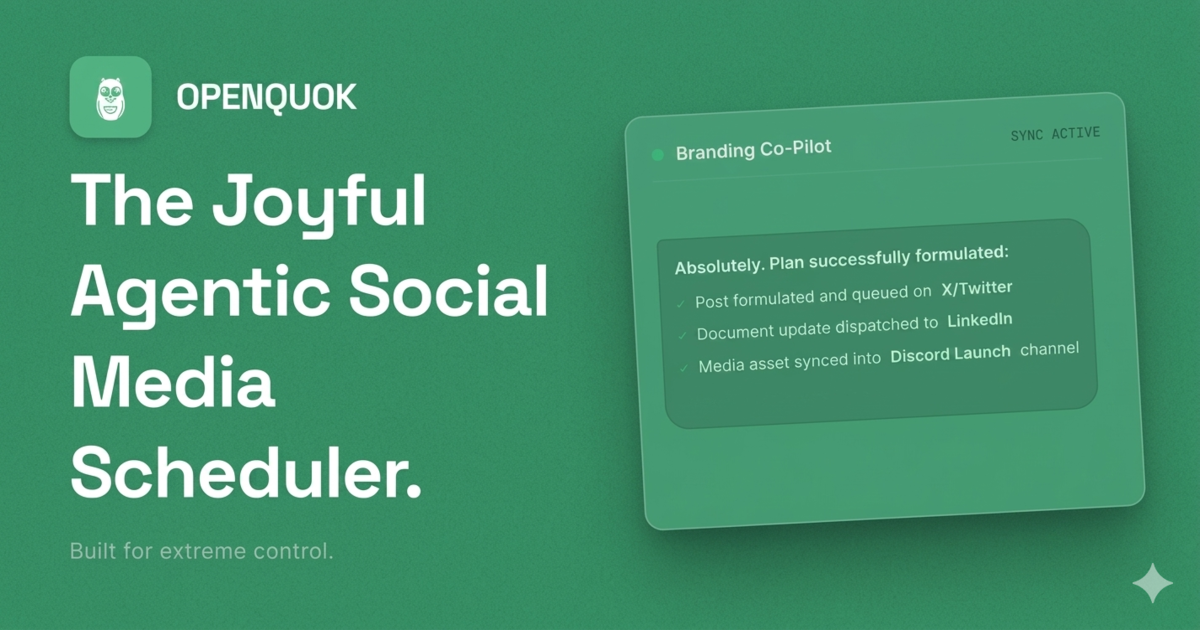
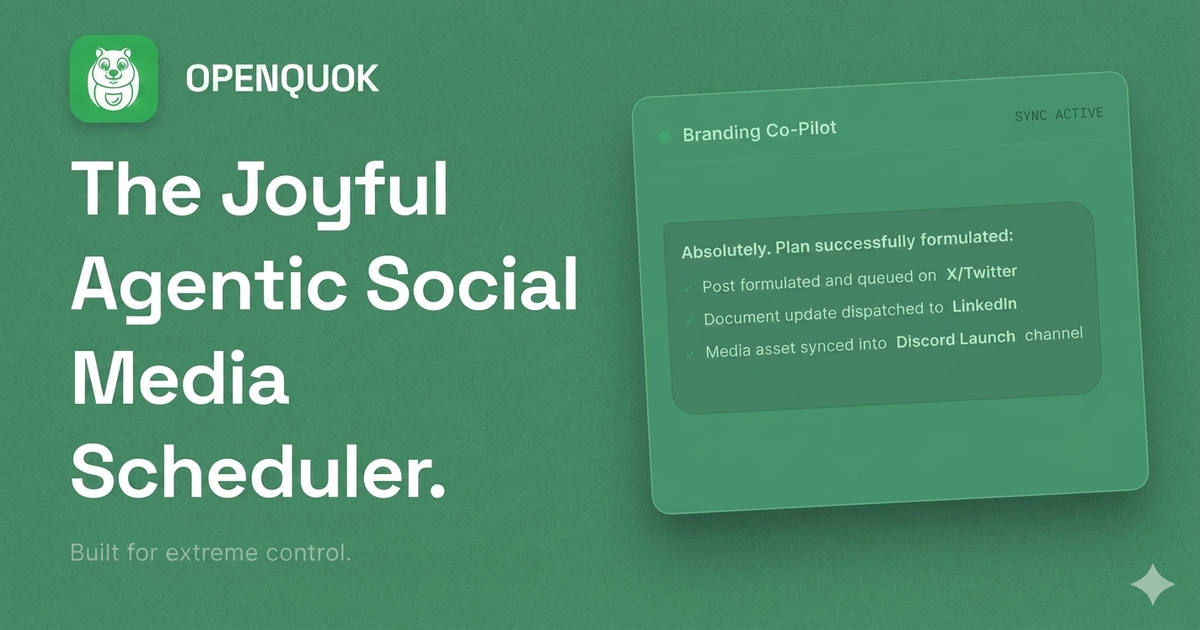
Fix (./web): Adding more q & a && fixing og

diff --git a/web/src/lib/billing/constants/publicPricingCatalog.ts b/web/src/lib/billing/constants/publicPricingCatalog.ts
@@ -33,6 +33,7 @@ export const PUBLIC_PRICING_SHARED_CARD_FEATURES: readonly string[] = [
 	'Analytics',
 	'Calendar views',
 	'Kanban views',
+	'Footage File manager',
 	'Reusable templates',
 	'Reusable signatures',
 	'Post delays',
@@ -149,7 +150,7 @@ export const PUBLIC_PRICING_COMPARE_ROWS: readonly PublicPricingCompareRowDefini
 	},
 	{
 		id: 'file_manager',
-		label: 'File manager',
+		label: 'Footage File manager',
 		tooltip: 'Create, rename, organize and manage your media/footage files.'
 	},
 	{
@@ -218,6 +219,11 @@ export type PublicPricingFaqItem = {
 
 export const PUBLIC_PRICING_FAQ_ITEMS: readonly PublicPricingFaqItem[] = [
 	{
+		title: 'Why switch from Buffer or Hootsuite?',
+		description:
+			'Buffer and Hootsuite charge $75–$200/month for enterprise feature most teams never use. OpenQuok covers the same UI scheduling basics including connect channels, compose, calendar, multi-channel publish. We also cover agent-first features like workspaces, integrations, and API/CLI access. Same workflow when you post by hand; built for when agents do the work. Less cost, less clutter, and real support from Meta and OpenQuok team.'
+	},
+	{
 		title: 'Can I try OpenQuok for free?',
 		description:
 			'Yes. OpenQuok offers a 7-day free trial. You can create an account and start today!'
@@ -257,9 +263,9 @@ export const PUBLIC_PRICING_FAQ_ITEMS: readonly PublicPricingFaqItem[] = [
 		description:
 			'Team members are people you invite to a workspace. They can collaborate on content and connect their own channels where your plan allows. Seat limits are shown as invites plus you as owner. For example, “2 + 1 (you) per workspace” means four invited members and one seat for you on each workspace you own.'
 	},
-	{ title: 'will my post get less reach if I use OpenQuok?',
+	{ title: 'will my post get less reach or banned if I use multi-channel publishing with OpenQuok?',
 		description:
-			'No ! Your posts should perform the same as if you published them directly on each platform. We had the same concern that algorithms might favor in-app posting, but in our own tests we did not see lower reach when scheduling through OpenQuok.'
+			'No ! We use the official API for each platform. Your posts should perform the same as if you published them directly on each platform. We had the same concern that algorithms might favor in-app posting, but in our own tests we did not see lower reach when scheduling through OpenQuok.'
 	},
 	{
 		title: 'How does repeated posts work',